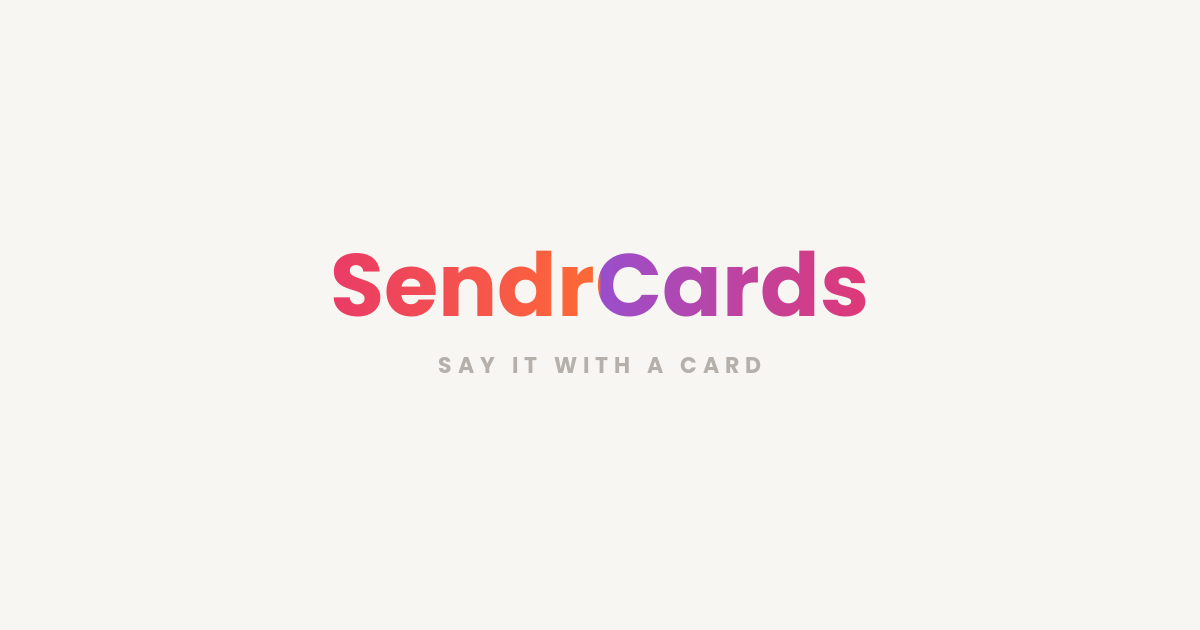
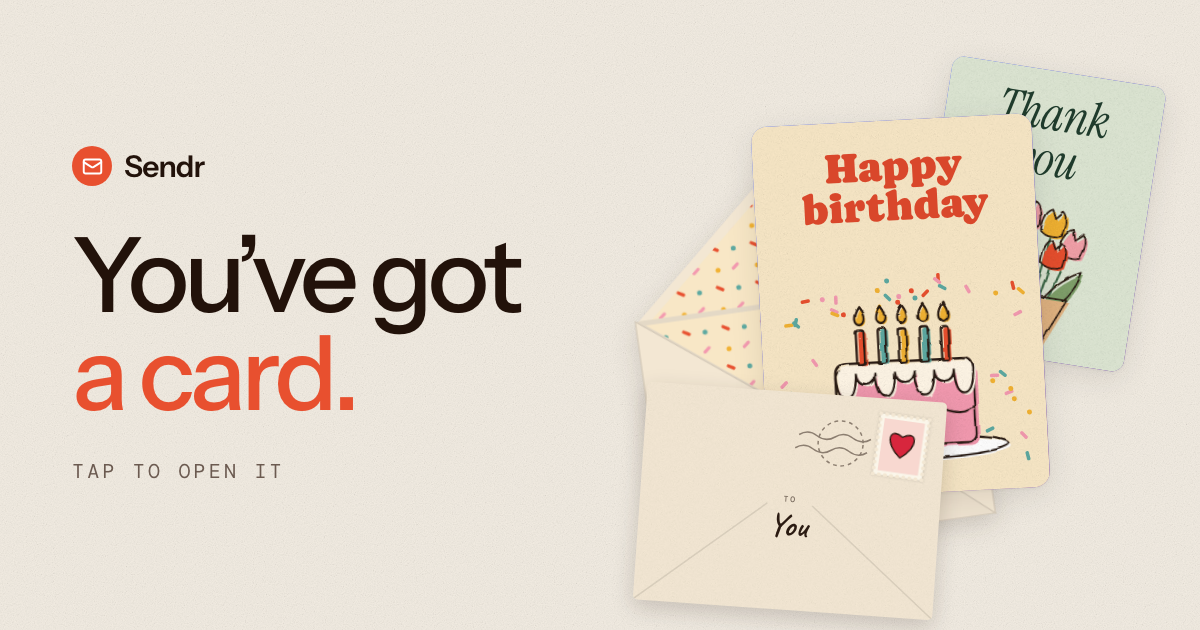
New link preview image and titles in the Sendr style; fit the arriving envelope on phones

diff --git a/index.html b/index.html
@@ -16,8 +16,8 @@
 <meta name="apple-mobile-web-app-status-bar-style" content="default"/>
 <meta name="apple-mobile-web-app-title" content="Sendr"/>
 <!-- Open Graph: Default (site sharing) -->
-<meta property="og:title" content="Sendr — Say It With a Card"/>
-<meta property="og:description" content="Create and send beautiful digital greeting cards for free. Design the front, write your message on the back, and send it instantly."/>
+<meta property="og:title" content="A card, just for you"/>
+<meta property="og:description" content="Open it on Sendr. Free cards for every occasion, no app needed."/>
 <meta property="og:image" content="https://www.sendrcards.com/og-image.png"/>
 <meta property="og:url" content="https://www.sendrcards.com/"/>
 <meta property="og:image:width" content="1200"/>
@@ -27,13 +27,13 @@
 <meta property="og:locale" content="en_US"/>
 <!-- Twitter: Default (site sharing) -->
 <meta name="twitter:card" content="summary_large_image"/>
-<meta name="twitter:title" content="Sendr — Say It With a Card"/>
-<meta name="twitter:description" content="Create and send beautiful digital greeting cards for free. Design the front, write your message on the back, and send it instantly."/>
+<meta name="twitter:title" content="A card, just for you"/>
+<meta name="twitter:description" content="Open it on Sendr. Free cards for every occasion, no app needed."/>
 <meta name="twitter:image" content="https://www.sendrcards.com/og-image.png"/>
 <!-- Additional SEO -->
 <meta name="robots" content="index, follow"/>
 <meta name="author" content="Sendr"/>
-<meta name="theme-color" content="#f7f6f3"/>
+<meta name="theme-color" content="#F1EBE1"/>
 <!-- Structured Data -->
 <script type="application/ld+json">
 {
@@ -79,16 +79,16 @@
 <script>
 if (window.location.search.indexOf('card=') > -1) {
   var metas = {
-    'og:title': "You've got a card",
-    'og:description': 'Someone made you something special. Tap to open it.',
-    'twitter:title': "You've got a card",
-    'twitter:description': 'Someone made you something special. Tap to open it.'
+    'og:title': "You\u2019ve got a card",
+    'og:description': 'Someone made you a card. Tap to open it.',
+    'twitter:title': "You\u2019ve got a card",
+    'twitter:description': 'Someone made you a card. Tap to open it.'
   };
   for (var key in metas) {
     var el = document.querySelector('meta[property="' + key + '"], meta[name="' + key + '"]');
     if (el) el.setAttribute('content', metas[key]);
   }
-  document.title = "You've got a card | Sendr";
+  document.title = "You\u2019ve got a card | Sendr";
 }
 </script>
 <!-- Google tag (gtag.js) -->
@@ -2786,6 +2786,7 @@ function render() {
   if (state.screen === "studio") { ensureStudio(); document.body.classList.add("st-lock"); renderStudio(app); return; }
   document.body.classList.remove("st-lock");
 
+  if (state.screen === "og") { renderOgArt(app); return; }
   if (state.screen === "browse") { renderBrowse(app, state.browseOcc); return; }
   if (state.screen === "detail") { renderCardDetail(app, state.detailId); return; }
 
@@ -3307,7 +3308,7 @@ function renderOpening(app, isPreview) {
 
   var W = stage.clientWidth, H = stage.clientHeight;
   var s = Math.max(0.42, Math.min((H - 24) / 480, (W - 32) / 360, 1.15));
-  var envW = Math.min(W - 32, 360 * s * 1.08);
+  var envW = Math.min(W - 64, 360 * s * 1.08);
   var from = (state.senderName || "").trim();
 
   function eyebrow(text) { return h("div", { className: "mk-eyebrow op-eyebrow" }, text); }
@@ -4491,7 +4492,47 @@ function renderDesignGallery(app) {
   app.appendChild(page);
 }
 
+// Link preview art (1200x630), rendered once to og-image.png from ?og.
+function renderOgArt(app) {
+  var root = h("div", { style: "position:fixed;left:0;top:0;width:1200px;height:630px;overflow:hidden;background:#F1EBE1;font-family:'Instrument Sans',sans-serif;color:#22120A" });
+  root.appendChild(h("div", { className: "st-grain", html: '<svg width="100%" height="100%" aria-hidden="true"><rect width="100%" height="100%" fill="#fff" filter="url(#sg-grain)" opacity=".18" style="mix-blend-mode:multiply"/></svg>' }));
+  var left = h("div", { style: "position:absolute;left:72px;top:0;bottom:0;display:flex;flex-direction:column;justify-content:center;width:560px" });
+  var brand = h("div", { style: "display:flex;align-items:center;gap:12px;font-size:30px;font-weight:600;letter-spacing:-0.03em;margin-bottom:40px" });
+  var mk = h("i", { style: "width:40px;height:40px;border-radius:50%;background:#E8502F;color:#fff;display:inline-flex;align-items:center;justify-content:center" });
+  mk.appendChild(icon("mail", 21, 2.2));
+  brand.appendChild(mk);
+  brand.appendChild(document.createTextNode("Sendr"));
+  left.appendChild(brand);
+  var h1 = h("div", { style: "font-size:104px;font-weight:500;letter-spacing:-0.05em;line-height:.94" });
+  h1.appendChild(document.createTextNode("You\u2019ve got"));
+  h1.appendChild(h("br"));
+  h1.appendChild(h("span", { style: "color:#E8502F" }, "a card."));
+  left.appendChild(h1);
+  left.appendChild(h("div", { style: "font-family:'DM Mono',monospace;font-size:20px;letter-spacing:.16em;text-transform:uppercase;color:#6B5A50;margin-top:36px" }, "Tap to open it"));
+  root.appendChild(left);
+  var env = { c: "cream", l: "confetti", s: "heart", k: "cream" };
+  var e1 = envelopeBack(env, 330);
+  e1.style.cssText += ";position:absolute;left:640px;top:150px;transform:rotate(-8deg)";
+  root.appendChild(e1);
+  var keep = { frontDesign: state.frontDesign, frontText: state.frontText, frontPhoto: state.frontPhoto, frontStickers: state.frontStickers, frontHeadFont: state.frontHeadFont, frontInk: state.frontInk, frontFontSize: state.frontFontSize };
+  function card(id, x, y, rot, sc) {
+    state.frontDesign = findDesign(id); state.frontText = null; state.frontPhoto = null; state.frontStickers = []; state.frontHeadFont = null; state.frontInk = null; state.frontFontSize = 1;
+    var c = renderCardSide("front", sc, false);
+    var w = h("div", { style: "position:absolute;left:" + x + "px;top:" + y + "px;transform:rotate(" + rot + "deg)" });
+    w.appendChild(c);
+    root.appendChild(w);
+  }
+  card("i-ty1", 930, 70, 9, 0.6);
+  card("i-bd1", 760, 120, -3, 0.78);
+  for (var k in keep) state[k] = keep[k];
+  var front = envelopeFront(env, 300, "You");
+  front.style.position = "absolute"; front.style.left = "640px"; front.style.top = "392px"; front.style.transform = "rotate(4deg)";
+  root.appendChild(front);
+  app.appendChild(root);
+}
+
 // ── INIT ──
+if (/[?&]og(=|&|$)/.test(location.search)) { state.screen = "og"; }
 if (/[?&]designs(=|&|$)/.test(location.search)) { state.screen = "designs"; document.title = "Sendr design review"; }
 var resizeTimer;
 window.addEventListener("resize", function() {
